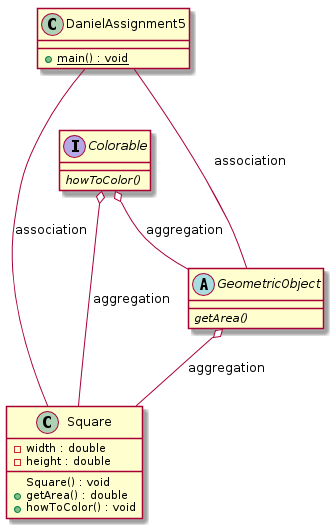
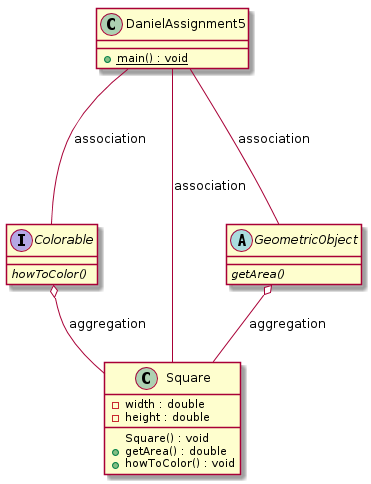
Fixed Assignment 5 so that GeometricObject will not inherit Colorable.  Need to case the Colorable type to an array element to access the "howToColor" method. Added minor corrections.

diff --git a/src/DanielAssignment5.java b/src/DanielAssignment5.java
@@ -18,7 +18,6 @@
  * Every class of the colorable object must implment the Colorable interface.
  */
 interface Colorable {
-
     void howToColor();
 }
 
@@ -30,10 +29,8 @@ interface Colorable {
  * GeometricObject also implement the Colorable interface.
  *
  */
-abstract class GeometricObject implements Colorable {
-
+abstract class GeometricObject {
     abstract public double getArea();
-
 }
 
 /**
@@ -74,7 +71,7 @@ public class DanielAssignment5 {
     public static void main (String[] args) {
 
         // Create an array with a length of 5 of Geometric objects.
-        GeometricObject[] array = new GeometricObject[5];
+        GeometricObject[] array = new Square[5];
 
         // Populate the array with Squares (GeometricObject is an abstract class and cannot have objects).
         array[0] = new Square(2.1, 4.7);
@@ -85,12 +82,11 @@ public class DanielAssignment5 {
 
         // Iterate over the array.
         for (int i = 0; i < array.length; i++) {
-            System.out.printf("Square at index %d has area of %.2f.", i, array[i].getArea());
+            System.out.printf("Square at index %d has area of %.2f. \n", i, array[i].getArea());
 
             if (array[i] instanceof Colorable) {
                 // Check to see if the object implements the Colorable interface.
-                System.out.print("Executing the howToColor returns: ");
-                array[i].howToColor();
+                ((Colorable)array[i]).howToColor();
 
             } else {
 

diff --git a/src/DanielExperiment1.java b/src/DanielExperiment1.java
@@ -1,0 +1,4 @@
+package PACKAGE_NAME;
+
+public class DanielExperiment1 {
+}
